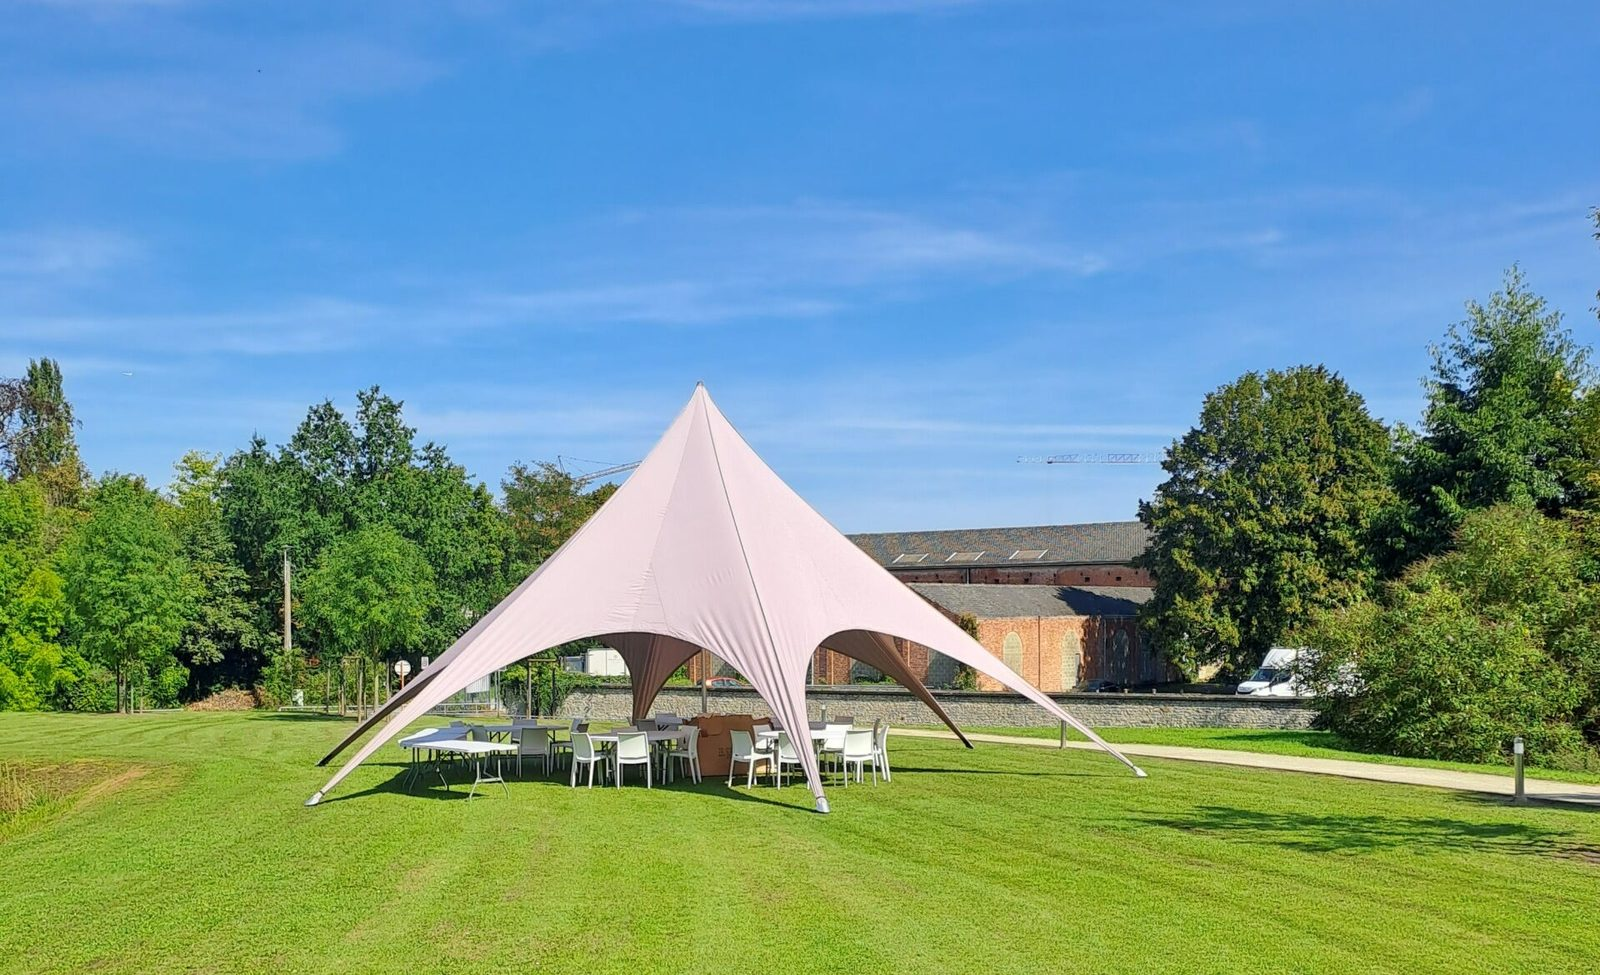
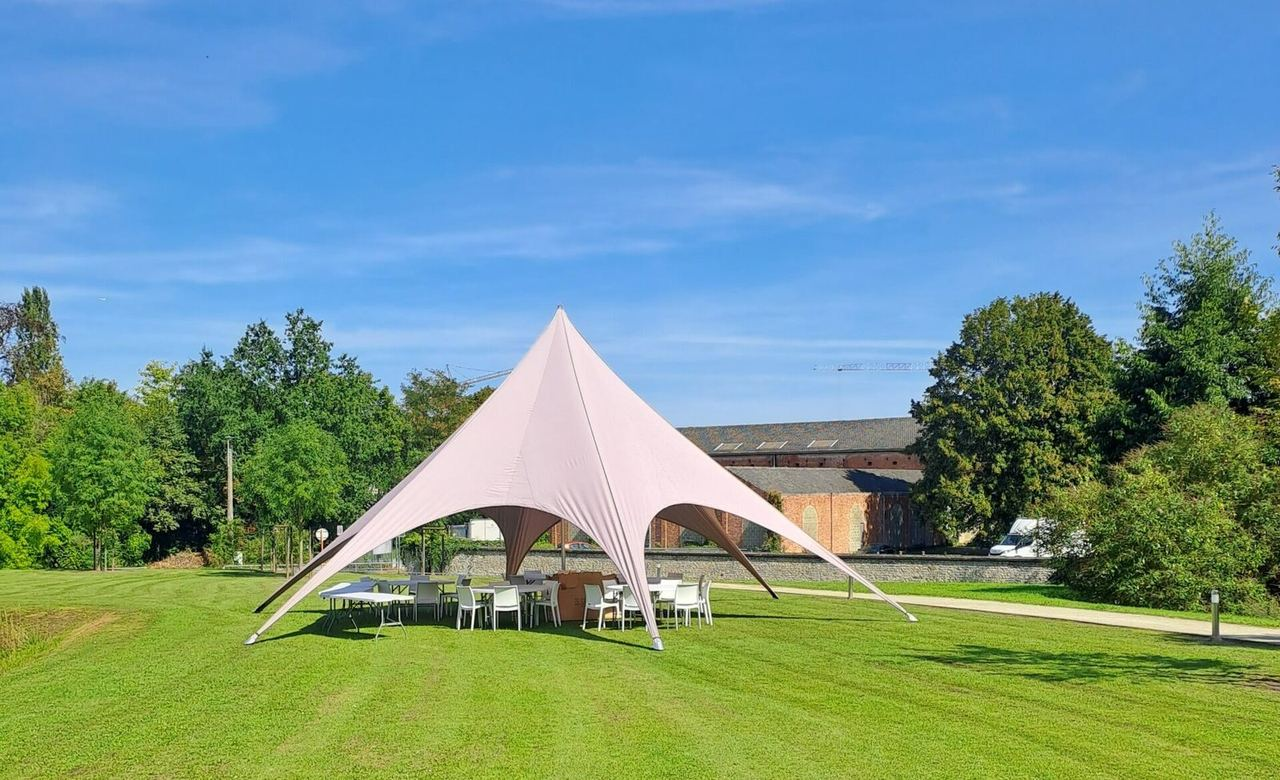
Optimalisaties: og:image, eager hero-foto, lichtere foto's
- og:image op alle pagina's (fotopreview bij delen via WhatsApp/social)
- Hero-foto eager geladen met fetchpriority=high (LCP-fix, loste ook
  niet-ladende hero op mobiel op)
- vouwtent-event.jpg en stertent.jpg verder gecomprimeerd (-322 KB)

diff --git a/index.html b/index.html
@@ -18,6 +18,7 @@
 <meta property="og:title" content="TENTenEVENT | Tent huren in Merchtem en omgeving">
 <meta property="og:description" content="Professionele tent huren voor je feest of event? TENTenEVENT verhuurt vouwtenten, partytenten, stertenten, feestpakketten en feestmateriaal in Merchtem en omgeving. Vraag vrijblijvend je offerte aan.">
 <meta property="og:url" content="https://www.tentenevent.be/">
+<meta property="og:image" content="https://teamict-codex.github.io/tentenevent-demo/assets/foto/hero-avondfeest.jpg">
 <link rel="stylesheet" href="assets/styles.css">
 <script type="application/ld+json">
 {"@context":"https://schema.org","@type":"LocalBusiness","name":"TENTenEVENT","description":"Professionele tentenverhuur en feestoplossingen: vouwtenten, partytenten, stertenten, feestpakketten en feestmateriaal in Merchtem en omgeving.","url":"https://www.tentenevent.be/","telephone":"+32477738566","address":{"@type":"PostalAddress","streetAddress":"Koeweideblock 4 E5","postalCode":"1785","addressLocality":"Merchtem","addressCountry":"BE"},"vatID":"BE0836849682","foundingDate":"2009","priceRange":"€€","areaServed":["Merchtem","Opwijk","Wemmel","Asse","Meise","Lebbeke","Buggenhout","Grimbergen","Affligem","Londerzeel"],"openingHoursSpecification":[{"@type":"OpeningHoursSpecification","dayOfWeek":"Monday","opens":"14:00","closes":"19:00"},{"@type":"OpeningHoursSpecification","dayOfWeek":"Tuesday","opens":"09:00","closes":"19:00"},{"@type":"OpeningHoursSpecification","dayOfWeek":"Wednesday","opens":"13:00","closes":"19:00"},{"@type":"OpeningHoursSpecification","dayOfWeek":"Thursday","opens":"14:00","closes":"19:00"},{"@type":"OpeningHoursSpecification","dayOfWeek":"Friday","opens":"09:00","closes":"18:00"},{"@type":"OpeningHoursSpecification","dayOfWeek":"Saturday","opens":"09:00","closes":"12:00"}]}
@@ -137,7 +138,7 @@
     </div>
     <div class="hero-media d2" data-reveal>
       <div class="arch photo">
-        <img class="ph" src="assets/foto/hero-avondfeest.jpg" alt="Gekoppelde vouwtenten met sfeerverlichting op een avondfeest" loading="lazy"><span class="photo-note"><span class="em">📸</span>Avondfeest onder onze gekoppelde vouwtenten</span>
+        <img class="ph" src="assets/foto/hero-avondfeest.jpg" alt="Gekoppelde vouwtenten met sfeerverlichting op een avondfeest" fetchpriority="high"><span class="photo-note"><span class="em">📸</span>Avondfeest onder onze gekoppelde vouwtenten</span>
       </div>
       <div class="float-card fc-1">
         <span class="ic"><span class="em">👥</span></span>

diff --git a/faq.html b/faq.html
@@ -18,6 +18,7 @@
 <meta property="og:title" content="Veelgestelde vragen over tentenverhuur | TENTenEVENT">
 <meta property="og:description" content="Antwoorden over tentgrootte, verankering, weer, levering, opbouw en voorwaarden bij het huren van een tent bij TENTenEVENT in Merchtem en omgeving.">
 <meta property="og:url" content="https://www.tentenevent.be/faq.html">
+<meta property="og:image" content="https://teamict-codex.github.io/tentenevent-demo/assets/foto/hero-avondfeest.jpg">
 <link rel="stylesheet" href="assets/styles.css">
 <script type="application/ld+json">
 {"@context":"https://schema.org","@type":"FAQPage","mainEntity":[

diff --git a/tent-huren-buggenhout.html b/tent-huren-buggenhout.html
@@ -18,6 +18,7 @@
 <meta property="og:title" content="Tent huren in Buggenhout | Vouwtent, partytent en stertent | TENTenEVENT">
 <meta property="og:description" content="Tent huren in Buggenhout? TENTenEVENT verhuurt vouwtenten, partytenten, stertenten en feestmateriaal in Buggenhout en omgeving. Afhalen of laten plaatsen. Vraag vrijblijvend je offerte aan.">
 <meta property="og:url" content="https://www.tentenevent.be/tent-huren-buggenhout.html">
+<meta property="og:image" content="https://teamict-codex.github.io/tentenevent-demo/assets/foto/hero-avondfeest.jpg">
 <link rel="stylesheet" href="assets/styles.css">
 </head>
 <body>

diff --git a/tent-huren-grimbergen.html b/tent-huren-grimbergen.html
@@ -18,6 +18,7 @@
 <meta property="og:title" content="Tent huren in Grimbergen | Vouwtent, partytent en stertent | TENTenEVENT">
 <meta property="og:description" content="Tent huren in Grimbergen? TENTenEVENT verhuurt vouwtenten, partytenten, stertenten en feestmateriaal in Grimbergen en omgeving. Afhalen of laten plaatsen. Vraag vrijblijvend je offerte aan.">
 <meta property="og:url" content="https://www.tentenevent.be/tent-huren-grimbergen.html">
+<meta property="og:image" content="https://teamict-codex.github.io/tentenevent-demo/assets/foto/hero-avondfeest.jpg">
 <link rel="stylesheet" href="assets/styles.css">
 </head>
 <body>

diff --git a/tent-huren-londerzeel.html b/tent-huren-londerzeel.html
@@ -18,6 +18,7 @@
 <meta property="og:title" content="Tent huren in Londerzeel | Vouwtent, partytent en stertent | TENTenEVENT">
 <meta property="og:description" content="Tent huren in Londerzeel? TENTenEVENT verhuurt vouwtenten, partytenten, stertenten en feestmateriaal in Londerzeel en omgeving. Afhalen of laten plaatsen. Vraag vrijblijvend je offerte aan.">
 <meta property="og:url" content="https://www.tentenevent.be/tent-huren-londerzeel.html">
+<meta property="og:image" content="https://teamict-codex.github.io/tentenevent-demo/assets/foto/hero-avondfeest.jpg">
 <link rel="stylesheet" href="assets/styles.css">
 </head>
 <body>

diff --git a/tent-huren-affligem.html b/tent-huren-affligem.html
@@ -18,6 +18,7 @@
 <meta property="og:title" content="Tent huren in Affligem | Vouwtent, partytent en stertent | TENTenEVENT">
 <meta property="og:description" content="Tent huren in Affligem? TENTenEVENT verhuurt vouwtenten, partytenten, stertenten en feestmateriaal in Affligem en omgeving. Afhalen of laten plaatsen. Vraag vrijblijvend je offerte aan.">
 <meta property="og:url" content="https://www.tentenevent.be/tent-huren-affligem.html">
+<meta property="og:image" content="https://teamict-codex.github.io/tentenevent-demo/assets/foto/hero-avondfeest.jpg">
 <link rel="stylesheet" href="assets/styles.css">
 </head>
 <body>

diff --git a/tent-huren-merchtem.html b/tent-huren-merchtem.html
@@ -18,6 +18,7 @@
 <meta property="og:title" content="Tent huren in Merchtem | Vouwtent, partytent en stertent | TENTenEVENT">
 <meta property="og:description" content="Tent huren in Merchtem? TENTenEVENT verhuurt vouwtenten, partytenten, stertenten en feestmateriaal in Merchtem en omgeving. Afhalen of laten plaatsen. Vraag vrijblijvend je offerte aan.">
 <meta property="og:url" content="https://www.tentenevent.be/tent-huren-merchtem.html">
+<meta property="og:image" content="https://teamict-codex.github.io/tentenevent-demo/assets/foto/hero-avondfeest.jpg">
 <link rel="stylesheet" href="assets/styles.css">
 </head>
 <body>

diff --git a/tent-huren-lebbeke.html b/tent-huren-lebbeke.html
@@ -18,6 +18,7 @@
 <meta property="og:title" content="Tent huren in Lebbeke | Vouwtent, partytent en stertent | TENTenEVENT">
 <meta property="og:description" content="Tent huren in Lebbeke? TENTenEVENT verhuurt vouwtenten, partytenten, stertenten en feestmateriaal in Lebbeke en omgeving. Afhalen of laten plaatsen. Vraag vrijblijvend je offerte aan.">
 <meta property="og:url" content="https://www.tentenevent.be/tent-huren-lebbeke.html">
+<meta property="og:image" content="https://teamict-codex.github.io/tentenevent-demo/assets/foto/hero-avondfeest.jpg">
 <link rel="stylesheet" href="assets/styles.css">
 </head>
 <body>

diff --git a/tent-huren-opwijk.html b/tent-huren-opwijk.html
@@ -18,6 +18,7 @@
 <meta property="og:title" content="Tent huren in Opwijk | Vouwtent, partytent en stertent | TENTenEVENT">
 <meta property="og:description" content="Tent huren in Opwijk? TENTenEVENT verhuurt vouwtenten, partytenten, stertenten en feestmateriaal in Opwijk en omgeving. Afhalen of laten plaatsen. Vraag vrijblijvend je offerte aan.">
 <meta property="og:url" content="https://www.tentenevent.be/tent-huren-opwijk.html">
+<meta property="og:image" content="https://teamict-codex.github.io/tentenevent-demo/assets/foto/hero-avondfeest.jpg">
 <link rel="stylesheet" href="assets/styles.css">
 </head>
 <body>

diff --git a/tent-huren-wemmel.html b/tent-huren-wemmel.html
@@ -18,6 +18,7 @@
 <meta property="og:title" content="Tent huren in Wemmel | Vouwtent, partytent en stertent | TENTenEVENT">
 <meta property="og:description" content="Tent huren in Wemmel? TENTenEVENT verhuurt vouwtenten, partytenten, stertenten en feestmateriaal in Wemmel en omgeving. Afhalen of laten plaatsen. Vraag vrijblijvend je offerte aan.">
 <meta property="og:url" content="https://www.tentenevent.be/tent-huren-wemmel.html">
+<meta property="og:image" content="https://teamict-codex.github.io/tentenevent-demo/assets/foto/hero-avondfeest.jpg">
 <link rel="stylesheet" href="assets/styles.css">
 </head>
 <body>

diff --git a/tent-huren-meise.html b/tent-huren-meise.html
@@ -18,6 +18,7 @@
 <meta property="og:title" content="Tent huren in Meise | Vouwtent, partytent en stertent | TENTenEVENT">
 <meta property="og:description" content="Tent huren in Meise? TENTenEVENT verhuurt vouwtenten, partytenten, stertenten en feestmateriaal in Meise en omgeving. Afhalen of laten plaatsen. Vraag vrijblijvend je offerte aan.">
 <meta property="og:url" content="https://www.tentenevent.be/tent-huren-meise.html">
+<meta property="og:image" content="https://teamict-codex.github.io/tentenevent-demo/assets/foto/hero-avondfeest.jpg">
 <link rel="stylesheet" href="assets/styles.css">
 </head>
 <body>

diff --git a/tent-huren-asse.html b/tent-huren-asse.html
@@ -18,6 +18,7 @@
 <meta property="og:title" content="Tent huren in Asse | Vouwtent, partytent en stertent | TENTenEVENT">
 <meta property="og:description" content="Tent huren in Asse? TENTenEVENT verhuurt vouwtenten, partytenten, stertenten en feestmateriaal in Asse en omgeving. Afhalen of laten plaatsen. Vraag vrijblijvend je offerte aan.">
 <meta property="og:url" content="https://www.tentenevent.be/tent-huren-asse.html">
+<meta property="og:image" content="https://teamict-codex.github.io/tentenevent-demo/assets/foto/hero-avondfeest.jpg">
 <link rel="stylesheet" href="assets/styles.css">
 </head>
 <body>
